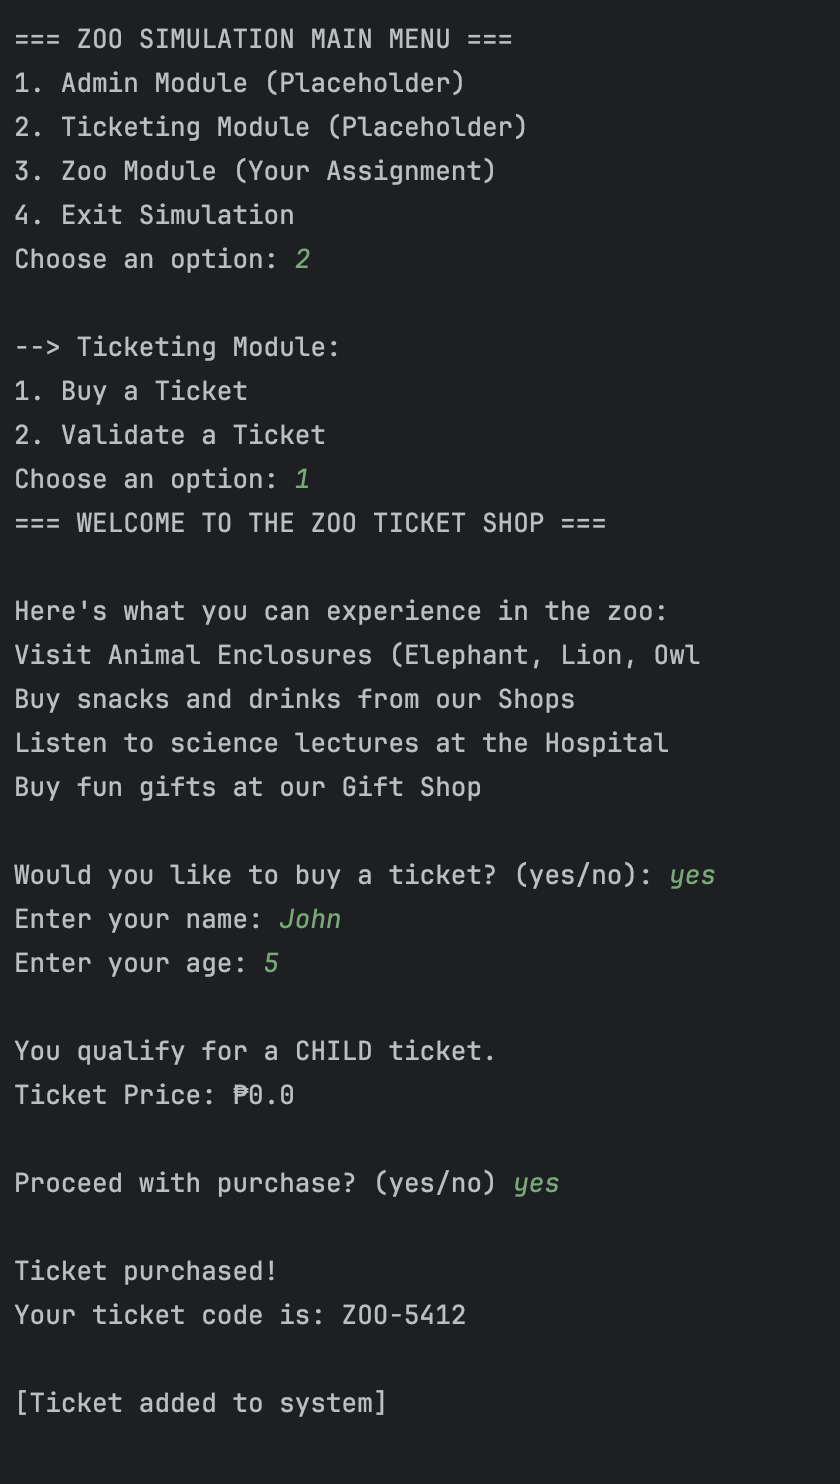
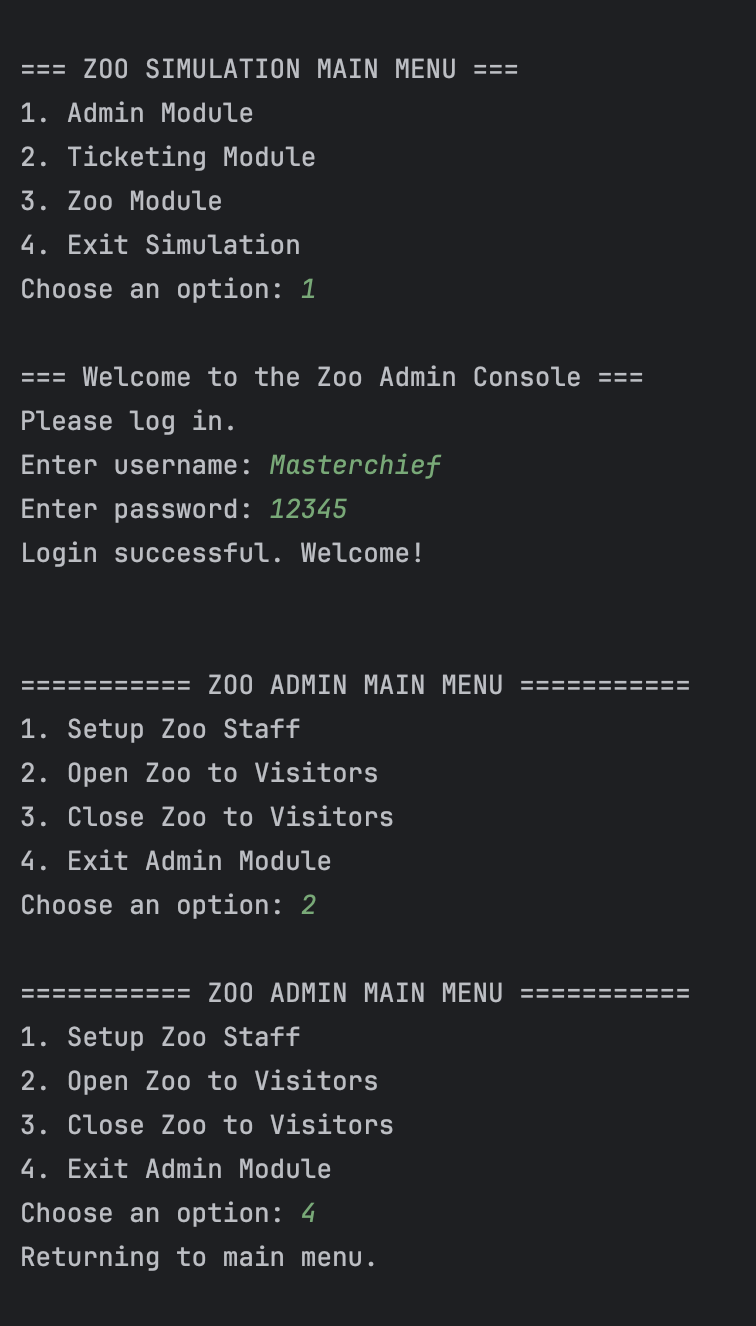
Final Submission, Zoo Simulation

diff --git a/src/main/java/org/example/Main.java b/src/main/java/org/example/Main.java
@@ -7,6 +7,7 @@ public class Main {
         Scanner scanner = new Scanner(System.in);
         Zoo zoo = new Zoo();
 
+
         while (true) {
             System.out.println("\n\n=== ZOO SIMULATION MAIN MENU ===");
             System.out.println("1. Admin Module");

diff --git a/README.md b/README.md
@@ -9,6 +9,13 @@ Johnvee Mandal </br>
 Session 1: Zoo Simulation </br>
 
 
-### Screenshot of WIP output: </br>
+### Screenshot of output: </br>
 
-![WIP Test](Springboot-1.png)
+![Zoo Diagram](Springboot-1.png)
+
+![Zoo Diagram](Springboot-2.png)
+
+![Zoo Diagram](Springboot-3.png)
+
+![Zoo Diagram](Springboot-4.png)
+
